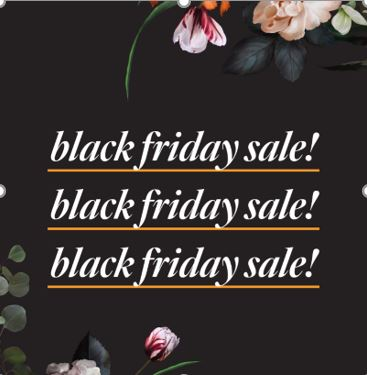
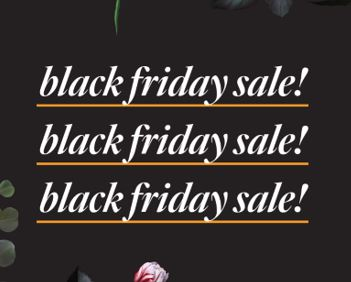
Update from Forestry.io staceygillespie created static/images/black-friday.JPG staceygillespie updated content/current-deals.md

diff --git a/content/current-deals.md b/content/current-deals.md
@@ -1,6 +1,6 @@
 +++
 description = "Exclusive limited-time sales while supplies last!"
-featured_image = "/images/bf-x3-v.png"
+featured_image = "/images/black-friday.JPG"
 title = "Current Deals"
 [menu.main]
 name = "Deals"
